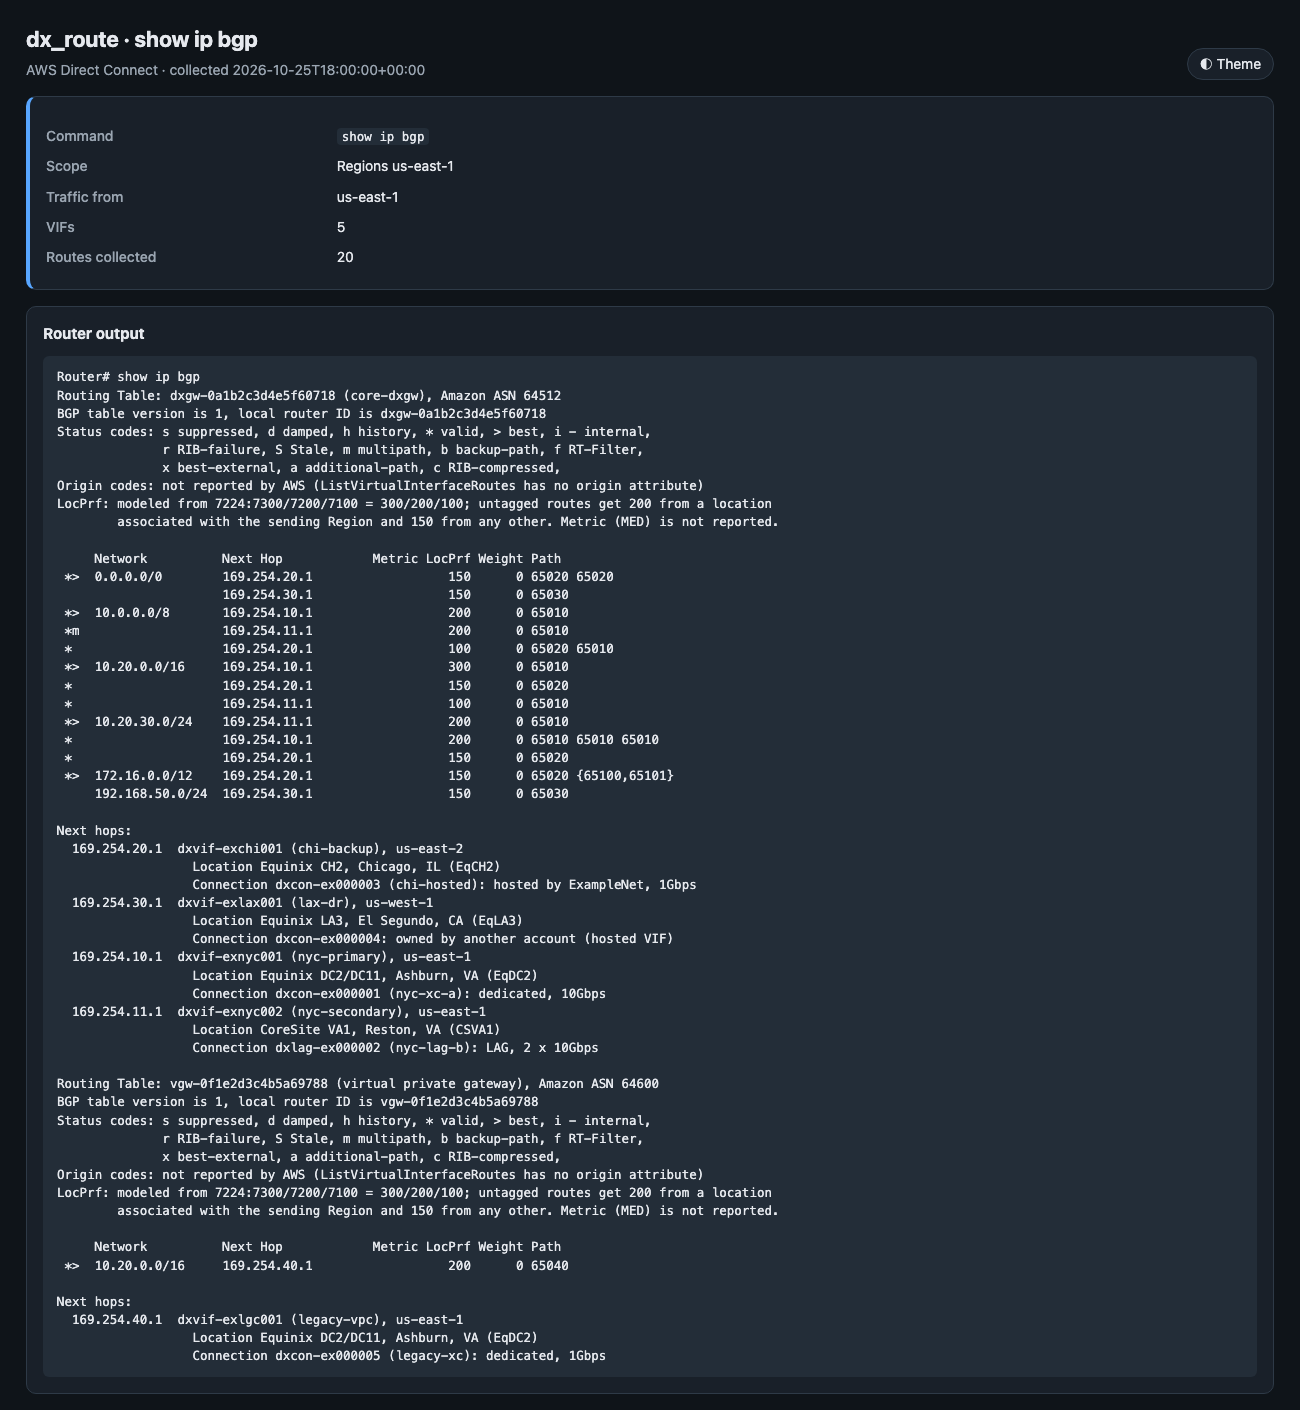
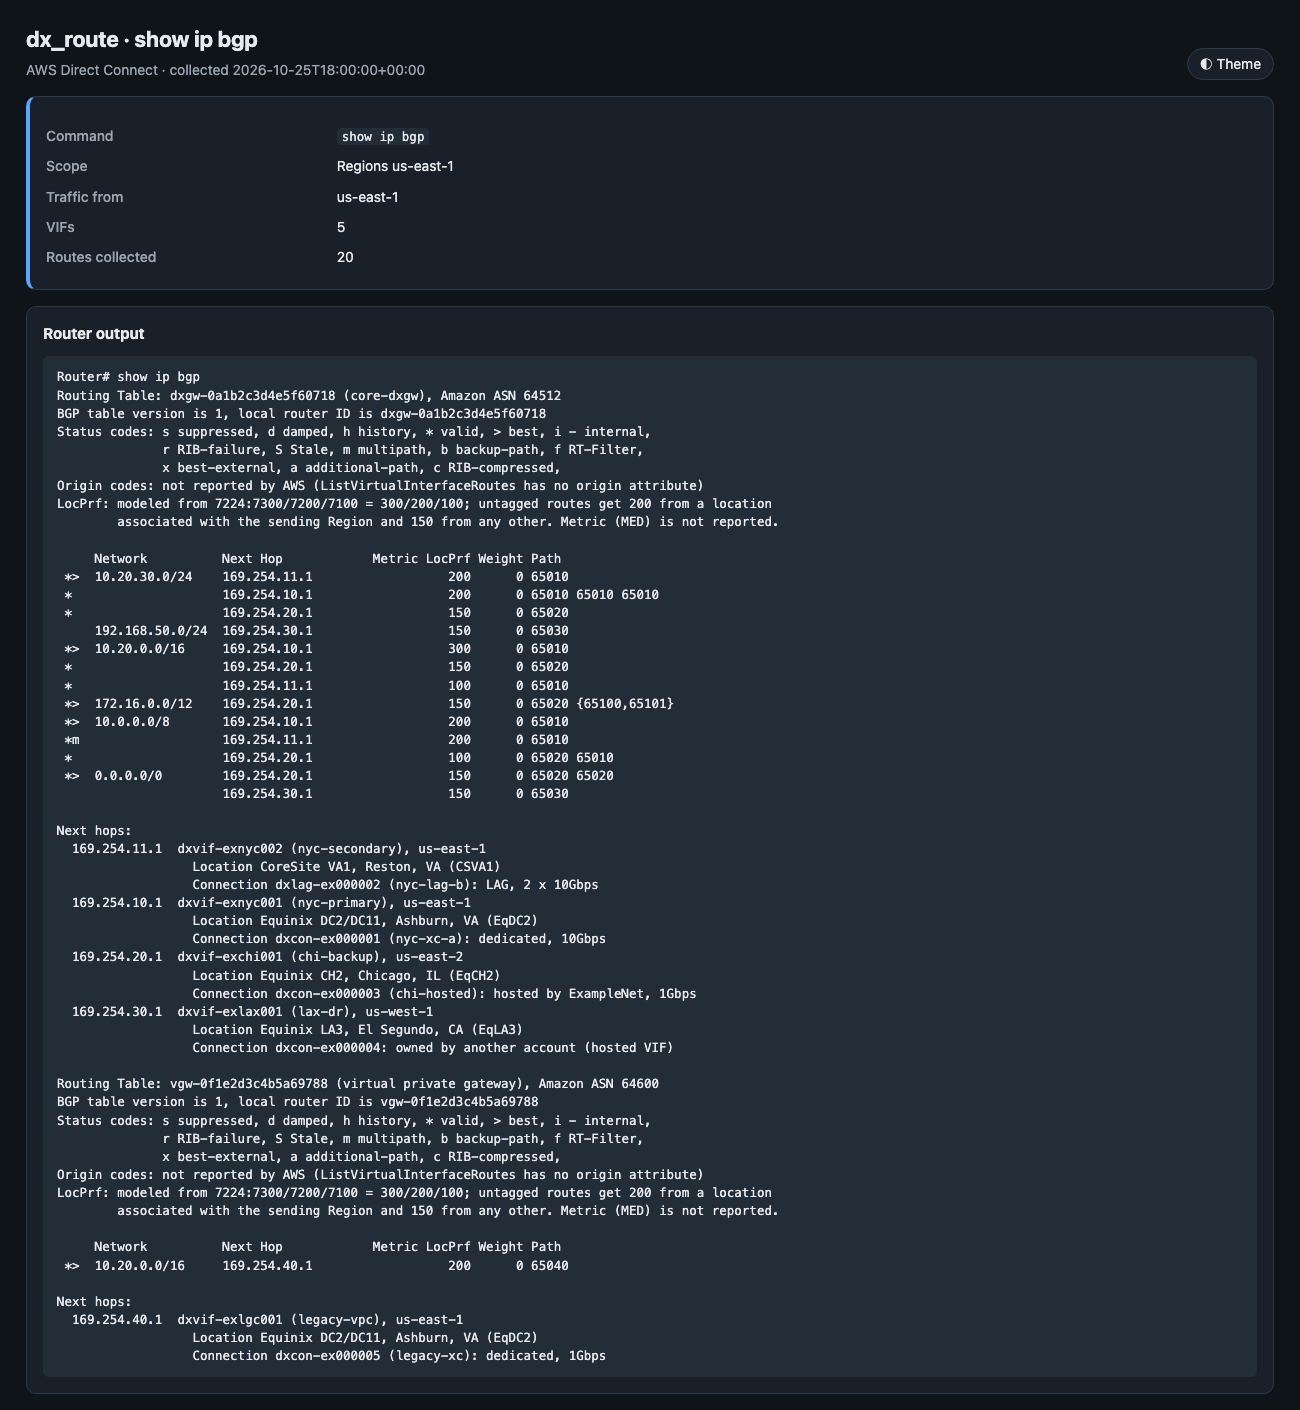
dx_route: list most specific prefixes first
Sort BGP/route tables, longer-prefixes and neighbor route listings by
prefix length (longest first), then network address. The HTML report's
router output follows the same order.

diff --git a/tools/dx_route/tests/test_dx_route.py b/tools/dx_route/tests/test_dx_route.py
@@ -190,8 +190,8 @@ def test_matching_helpers(bundle):
     assert core.covering(table, q) == ["10.20.30.0/24", "10.20.0.0/16", "10.0.0.0/8", "0.0.0.0/0"]
     assert core.longest_match(table, q) == "10.20.30.0/24"
     assert core.longest_match(table, ipaddress.ip_network("192.168.50.9/32")) == "0.0.0.0/0"
-    assert core.longer_prefixes(table, ipaddress.ip_network("10.0.0.0/8")) == ["10.0.0.0/8", "10.20.0.0/16",
-                                                                               "10.20.30.0/24"]
+    assert core.longer_prefixes(table, ipaddress.ip_network("10.0.0.0/8")) == ["10.20.30.0/24", "10.20.0.0/16",
+                                                                               "10.0.0.0/8"]
     assert core.longest_match(table, ipaddress.ip_network("2001:db8:100::/48")) == "2001:db8:100::/40"
 
 
@@ -220,6 +220,12 @@ def test_parse_command(text, expect):
 def test_parse_command_prefix_values():
     assert str(cmd("show ip bgp 10.0.0.0 255.0.0.0 longer-prefixes")["prefix"]) == "10.0.0.0/8"
     assert str(cmd("show ip route 10.20.30.7")["prefix"]) == "10.20.30.7/32"
+
+
+def test_sort_prefixes_most_specific_first():
+    assert core.sort_prefixes(["10.0.0.0/8", "0.0.0.0/0", "10.20.0.0/16", "10.9.0.0/16", "2001:db8::/32",
+                               "10.20.30.0/24"]) == ["10.20.30.0/24", "10.9.0.0/16", "10.20.0.0/16", "10.0.0.0/8",
+                                                     "0.0.0.0/0", "2001:db8::/32"]
 
 
 @pytest.mark.parametrize("text", ["show ip", "show interfaces", "show ip bgp neighbors 1.1.1.1",
@@ -674,7 +680,7 @@ def test_cli_json_and_report_path(bundle, tmp_path, capsys, monkeypatch):
     monkeypatch.chdir(tmp_path)
     assert dx_route.main(["--from-json", str(f), "--json", "show", "ip", "bgp", "10.20.30.7"]) == 0
     data = json.loads(capsys.readouterr().out)
-    assert list(data["tables"][DXGW]) == ["0.0.0.0/0", "10.0.0.0/8", "10.20.0.0/16", "10.20.30.0/24"]
+    assert list(data["tables"][DXGW]) == ["10.20.30.0/24", "10.20.0.0/16", "10.0.0.0/8", "0.0.0.0/0"]
     assert data["tables"][DXGW]["10.20.30.0/24"]["best"]["vif"] == NYC2
     report = tmp_path / "reports" / "2026-10-25" / "us-east-1" / "dx-route_show-ip-bgp-10.20.30.7.html"
     assert report.exists()

diff --git a/tools/dx_route/dr_cisco.py b/tools/dx_route/dr_cisco.py
@@ -283,7 +283,7 @@ def neighbor_routes(bundle: dict, key: str, which: str, neighbor: str | None, fa
                   *[f"  {d}" for d in vif_details(v)],
                   f"BGP table version is 1, local router ID is {key.split(':', 1)[-1]}", STATUS_LEGEND, TABLE_HEAD]
         nh = core.addr(peer.get("customer_address") if direction == core.ACCEPTED else peer.get("amazon_address"))
-        for r in sorted(routes, key=lambda r: (core.net(r["cidr"]).network_address, core.net(r["cidr"]).prefixlen)):
+        for r in sorted(routes, key=lambda r: (-core.net(r["cidr"]).prefixlen, core.net(r["cidr"]).network_address)):
             lines += _row("*", r["cidr"], nh, None, core.as_path_text(r["as_path"]))
         if direction == core.ADVERTISED and core.ADVERTISED not in (bundle.get("directions") or []):
             lines.append("% Advertised routes were not collected for this bundle")

diff --git a/tools/dx_route/dr_core.py b/tools/dx_route/dr_core.py
@@ -574,7 +574,8 @@ def select(bundle: dict, direction: str = ACCEPTED) -> dict:
 
 
 def sort_prefixes(prefixes: Iterable[str]) -> list[str]:
-    return sorted(prefixes, key=lambda c: (net(c).version, net(c).network_address, net(c).prefixlen))
+    """Most specific first: longest prefix length, then network address."""
+    return sorted(prefixes, key=lambda c: (net(c).version, -net(c).prefixlen, net(c).network_address))
 
 
 def covering(table: dict[str, dict], query: Network) -> list[str]:

diff --git a/tools/dx_route/README.md b/tools/dx_route/README.md
@@ -121,26 +121,26 @@ Less specific prefixes that also cover 10.20.30.0/24:
   0.0.0.0/0          best via 169.254.20.1 (dxvif-exchi001)
 ```
 
-The BGP table for the same gateway (the status-code legend is left out here):
+The BGP table for the same gateway, most specific prefix first (the status-code legend is left out here):
 
 ```text
 Routing Table: dxgw-0a1b2c3d4e5f60718 (core-dxgw), Amazon ASN 64512
 BGP table version is 1, local router ID is dxgw-0a1b2c3d4e5f60718
 
      Network          Next Hop            Metric LocPrf Weight Path
- *>  10.0.0.0/8       169.254.10.1                  200      0 65010
- *m                   169.254.11.1                  200      0 65010
- *                    169.254.20.1                  100      0 65020 65010
- *>  10.20.0.0/16     169.254.10.1                  300      0 65010
- *                    169.254.20.1                  150      0 65020
- *                    169.254.11.1                  100      0 65010
  *>  10.20.30.0/24    169.254.11.1                  200      0 65010
  *                    169.254.10.1                  200      0 65010 65010 65010
  *                    169.254.20.1                  150      0 65020
+ *>  10.20.0.0/16     169.254.10.1                  300      0 65010
+ *                    169.254.20.1                  150      0 65020
+ *                    169.254.11.1                  100      0 65010
+ *>  10.0.0.0/8       169.254.10.1                  200      0 65010
+ *m                   169.254.11.1                  200      0 65010
+ *                    169.254.20.1                  100      0 65020 65010
 
 Next hops:
-  169.254.10.1  dxvif-exnyc001 (nyc-primary), us-east-1
   169.254.11.1  dxvif-exnyc002 (nyc-secondary), us-east-1
+  169.254.10.1  dxvif-exnyc001 (nyc-primary), us-east-1
   169.254.20.1  dxvif-exchi001 (chi-backup), us-east-2
 ```
 
